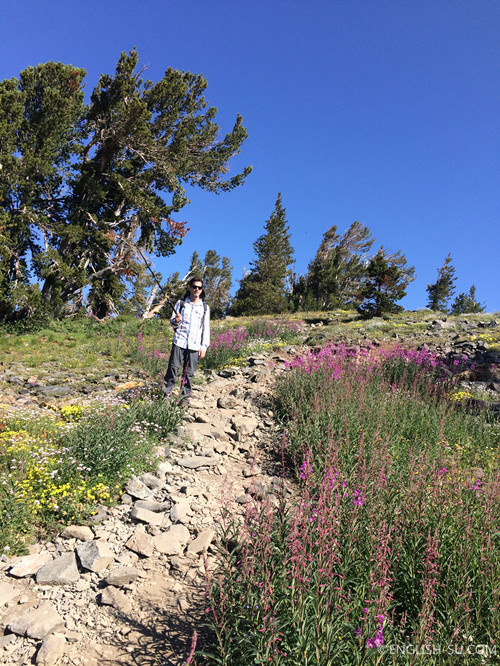
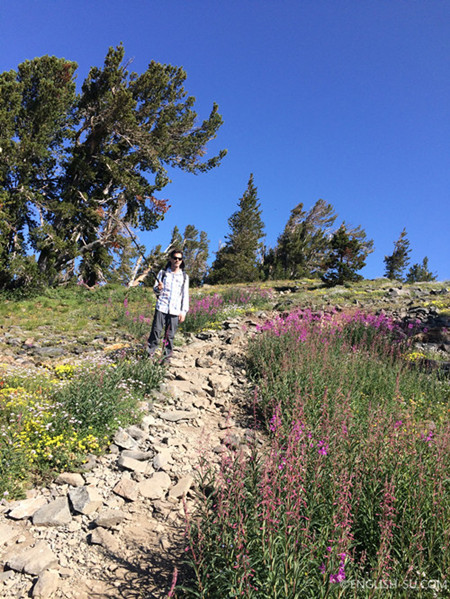
shrink pics and updated queen charlotte traack day 2

diff --git a/content/post/queen-charlotte-track-day-1.md b/content/post/queen-charlotte-track-day-1.md
@@ -1,5 +1,5 @@
 ---
-title: "Queen Charlotte Track"
+title: "Queen Charlotte Track DAY 1"
 date: 2015-12-15T19:29:06-07:00
 categories:
   - Hiking
@@ -10,26 +10,26 @@ categories:
 ## Ship Cove->Camp Bay Campsite
 ### 27 km - Overcast/Rainy
 
-{{< figure src="/img/2015/12/ferry-ride.jpg"  width="100%" >}}
+{{< figure src="/img/2015/12/queen-charlotte-track-day-1-ferry-ride.jpg"  width="100%" >}}
 
 <!--more-->
 
 
 We took a ferry from the pier in Picton to the starting point of this hike at Ship Cove. During the ride we not only witnessed the green rolling mountains along Queen Charlotte Sound but also cute little penguins living on an isolated islands and groups of welcoming dolphins popping out of the water.
 
-{{< figure src="/img/2015/12/dophins.jpg" title="Dolphins" >}}
+{{< figure src="/img/2015/12/queen-charlotte-track-day-1-dophins.jpg" title="Dolphins" >}}
 
 The trail was muddy from  the rain with continuous ups and downs and some bridge crossings but we were rewarded with stunningly beautiful views of the sound every once a while. Even under the bad weather, the ocean still maintained its charming azure.
 
-{{< img-post path="date" file="at-the-trail-head.jpg" type="full-width">}}
+{{< img-post path="date" file="queen-charlotte-track-day-1-at-the-trail-head.jpg" type="full-width">}}
 
-{{< img-post path="date" file="azure-water.jpg" type="full-width">}}
+{{< img-post path="date" file="queen-charlotte-track-day-1-azure-water.jpg" type="full-width">}}
 
-{{< img-post path="date" file="bridge-crossing.jpg" type="full-width">}}
+{{< img-post path="date" file="queen-charlotte-track-day-1-bridge-crossing.jpg" type="full-width">}}
 
-{{< img-post path="date" file="overlook-of-queen-charlotte-sound.jpg" type="full-width">}}
+{{< img-post path="date" file="queen-charlotte-track-day-1-overlook-of-queen-charlotte-sound.jpg" type="full-width">}}
 
-{{< img-post path="date" file="trail.jpg" type="full-width">}}
+{{< img-post path="date" file="queen-charlotte-track-day-1-trail.jpg" type="full-width">}}
 
 
 Unexpectedly, by the time when we finally reached our first destination, Camp Bay, it was already packed with a bunch of noisy middle school students led by their teacher to experience outdoor fun. We had a hard time finding a leftover flat ground to set up our tent. A young British volunteer who was maintaining the campsite there pointed us to a big patch of glowworms perching on the rock shimmering like countless small diamonds in the dark.

diff --git a/content/post/queen-charlotte-track-day-2.md b/content/post/queen-charlotte-track-day-2.md
@@ -1,0 +1,40 @@
+---
+title: "Queen Charlotte Track DAY 2"
+date: 2015-12-15T19:30:06-07:00
+categories:
+  - Hiking
+  - Backpacking
+  - New Zealand
+---
+## Dec 2, 2015
+## Camp Bay Campsite->Black Rock Campsite
+### 18 km - Overcast/Rainy
+
+{{< figure src="/img/2015/12/queen-charlotte-track-day-2-overlook.jpg"  width="100%" >}}
+
+<!--more-->
+
+
+It rained even more than the first day and the trail turned out even more sludgy. Though we hiked 9 km less than the previous day, it was still challenging and our legs were very sore. Around 5:00 pm, when it was still quite light, we were happy to find that a quiet night seemed to be guaranteed in Black Rock Campsite, located high up on the mountain with a great vista of the sound. A kiwi lady Grace whom we met the previous  morning in the hotel in Picton during our breakfast was the only one whom we shared the campsite with. She was probably in her 60s and had planned to spend three months hiking from the north to the south of the South Island of New Zealand on the Te Aurora. Queen Charlotte Sound track was just the starting section of her odyssey. It is something to really look forward to if someday we could have sufficient time and savings to travel back. Grace also told us that the fearless food-chasing big bird that often bothered us during the hike was a type of local birds named Weka. Similar to  kiwi birds, wekas have lost their fly-ability due to the lack of natural enemies on the island. Later a storm raged  outside of the tent for almost the entire night while tons of mosquitoes kept buzzing relentlessly under our rain cape like bombers ...
+
+
+{{< figure src="/img/2015/12/queen-charlotte-track-day-2-safty-sign.jpg" >}}
+
+Wise advise right?
+
+{{< img-post path="date" file="queen-charlotte-track-day-2-sound-overlook.jpg" type="full-width">}}
+
+Checking the map in rainy and windy weather.
+
+{{< img-post path="date" file="queen-charlotte-track-day-2-view-from-campsite.jpg" type="full-width">}}
+
+Overlooking the sound from our campsite.
+
+
+{{< img-post path="date" file="queen-charlotte-track-day-2-camping.jpg" type="full-width">}}
+
+Working on the tent.
+
+{{< img-post path="date" file="queen-charlotte-track-day-2-weka.jpg" type="full-width">}}
+
+Fearless food-chasing bird - Weka.

diff --git a/content/post/pyramid-creek-horsetail-falls-nov-19-2017.md b/content/post/pyramid-creek-horsetail-falls-nov-19-2017.md
@@ -18,6 +18,7 @@ categories:
 * 15:19pm - Hike back
 * 15:33pm - Take a 10 minutes break by a small waterfall alon the way
 * 16:11pm - Back to the parking
+
 <!--more-->
 
 {{< figure src="/img/2017/11/pyramid-creek-b-sign.jpg" >}}
